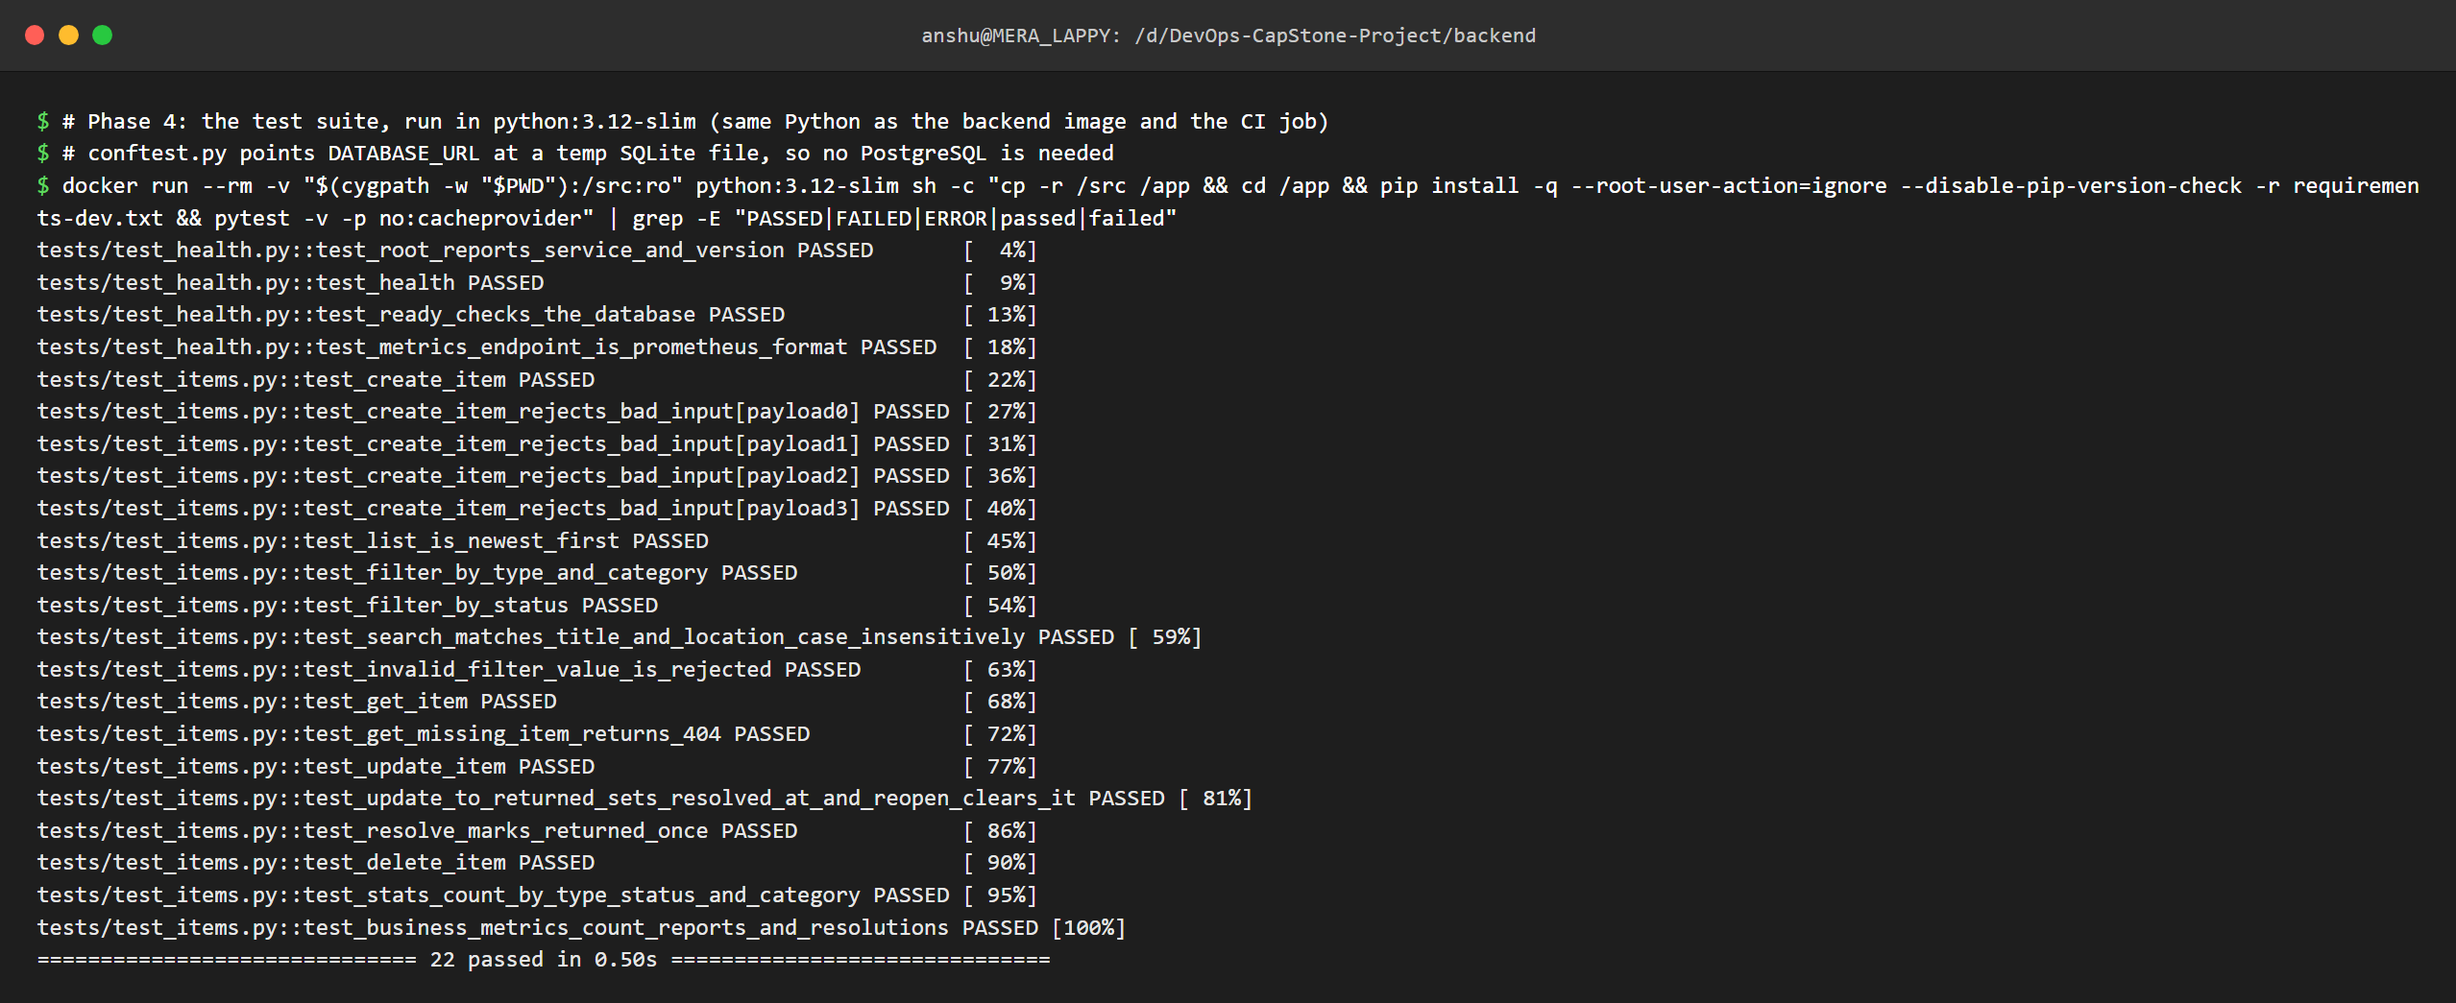
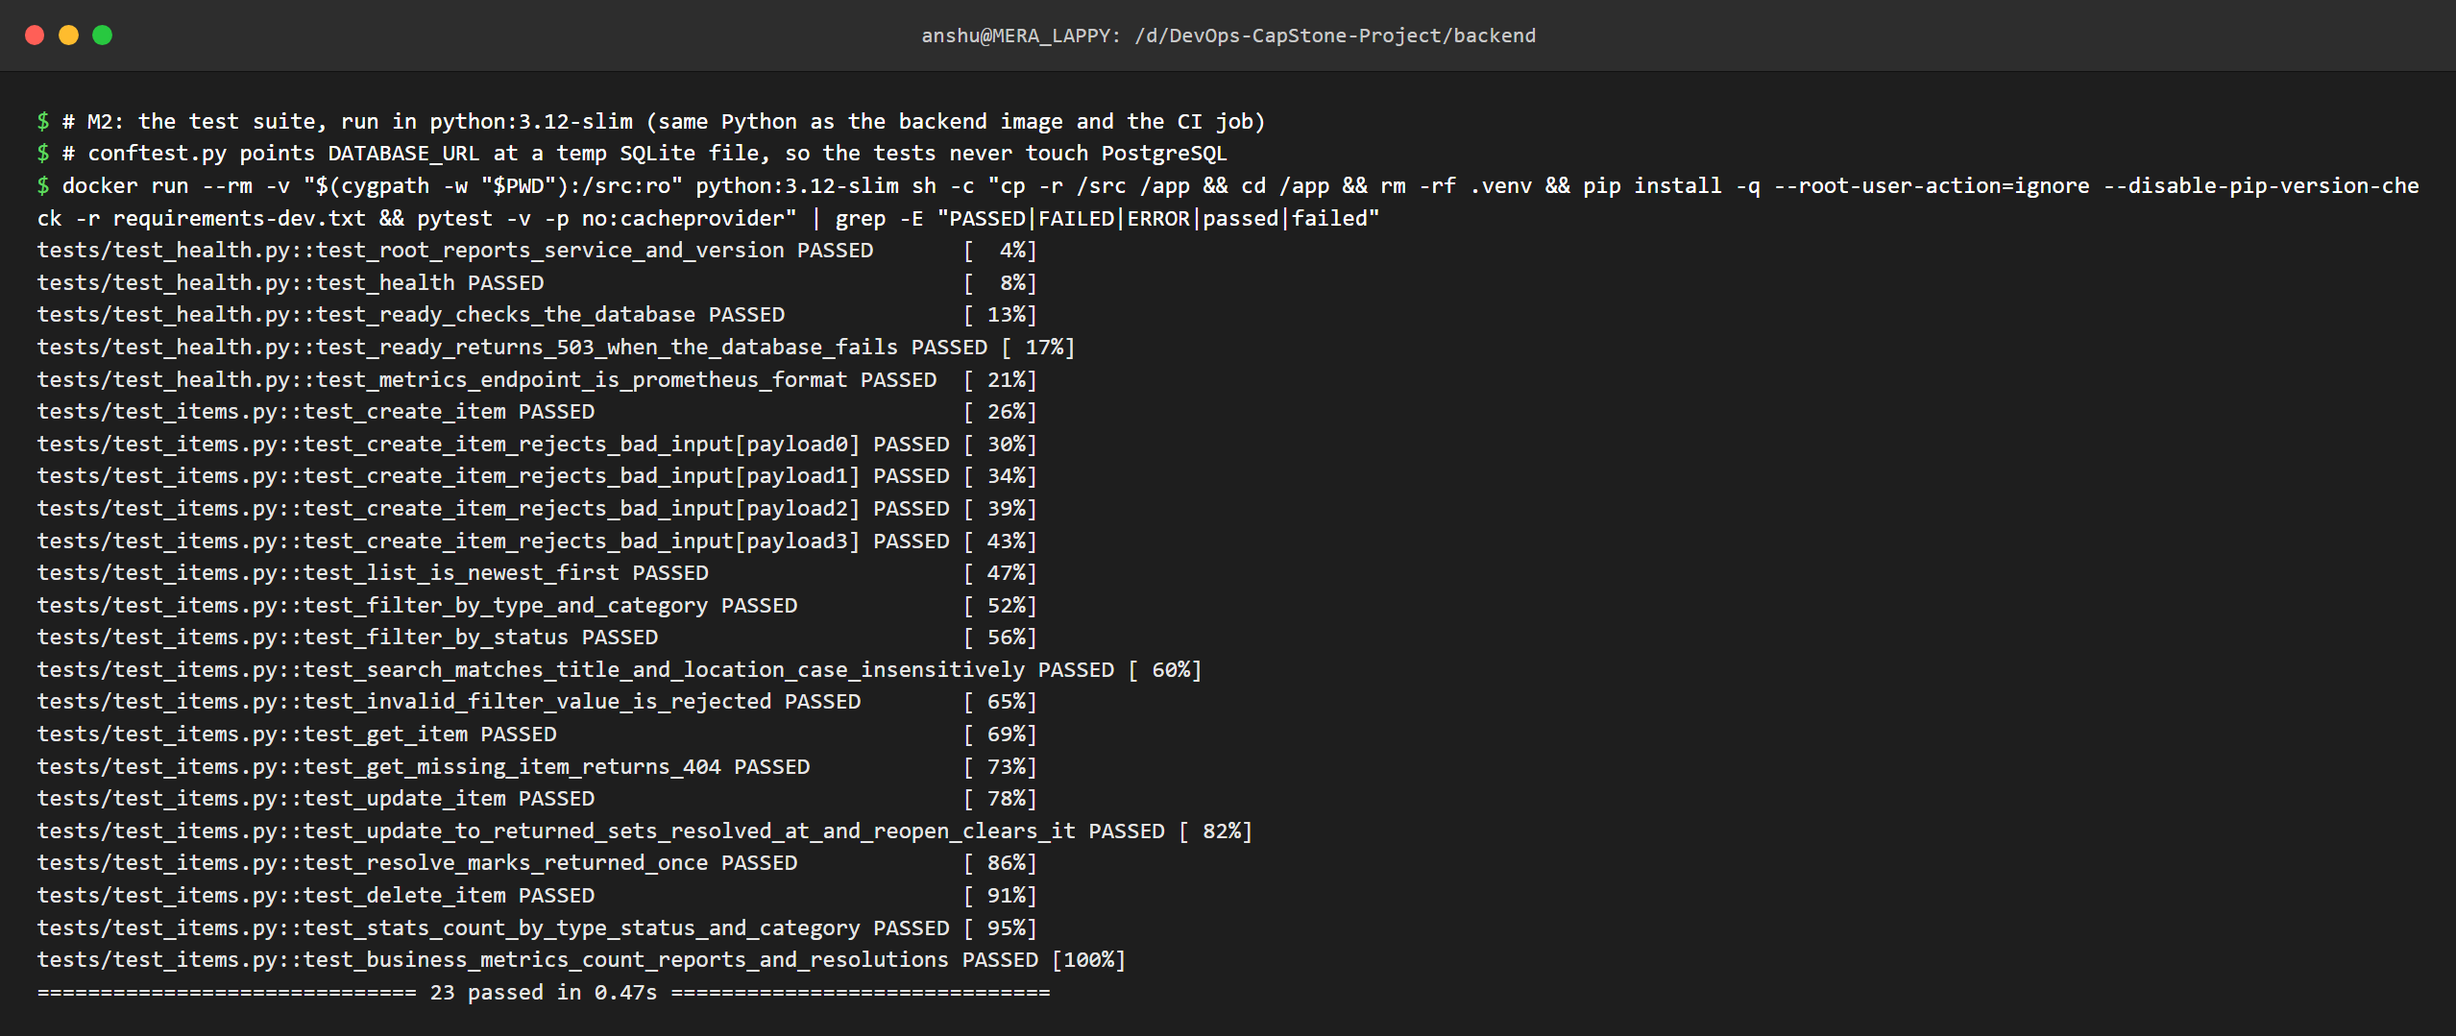
Write the project README with run instructions, pipeline, Trivy notes and rubric map

Changed region(s): [[0.0, 0.0919, 0.9887, 0.9799], [0.3707, 0.0306, 0.6179, 0.0612]]

diff --git a/README.md b/README.md
@@ -3,12 +3,177 @@ FoundIt – Campus Lost & Found (DevOps Capstone)
 
 Name: Anshul Mohanty    Roll No: 24BCS10191    Section: A
 
-FoundIt is a campus lost & found board: students report items they **lost** or **found**, others browse
-and filter them, and an item moves `OPEN → CLAIMED → RETURNED`. The app is small on purpose: the project
-is the DevOps layer around it. That layer covers tests, containers, a CI/CD pipeline with a security gate,
-Kubernetes via Helm, monitoring, autoscaling, GitOps, and AWS infrastructure built with Terraform.
+**FoundIt** is a campus lost & found board. A student who loses something (an ID card, a bottle, a charger,
+a book…) posts a **LOST** report; whoever finds something posts a **FOUND** report. Everyone can browse,
+filter and search the board, and an item moves `OPEN → CLAIMED → RETURNED` once it gets back to its owner.
 
-- **Design and decisions:** [DESIGN.md](DESIGN.md)
-- **What I learned, phase by phase:** [LEARNING.md](LEARNING.md)
+The app is deliberately small. The project is the **DevOps layer** around it:
+- tests
+- non-root containers
+- a CI/CD pipeline with a security gate
+- Helm on Kubernetes with an Ingress, autoscaling and probes
+- Prometheus/Grafana with custom business metrics
+- GitOps delivery through Argo CD
+- AWS infrastructure (VPC + EKS) built with Terraform
 
-> 🚧 Work in progress: this README is completed in Phase 11 with run instructions and the rubric map.
+![FoundIt board](docs/screenshots/14_ui_ingress.png)
+
+| Document | What's in it |
+|---|---|
+| [DESIGN.md](DESIGN.md) | architecture, data model, API, and a **decision log** (why each choice was made) |
+| [LEARNING.md](LEARNING.md) | what I learned in each build phase: concepts, real gotchas, viva answers |
+| [terraform/README.md](terraform/README.md) | the AWS runbook: apply, deploy, teardown order, cost |
+| [troubleshooting/README.md](troubleshooting/README.md) | three break-and-fix Kubernetes labs |
+
+## Architecture
+
+```mermaid
+flowchart LR
+    DEV["git push main"] --> GA["GitHub Actions"]
+    GA --> T["pytest · npm build · helm lint<br/>+ migrations on real Postgres"]
+    T --> B["build 2 images :SHA"]
+    B --> S["Trivy gate"]
+    S --> R["GHCR"]
+    R --> K["kind smoke deploy"]
+    K --> BUMP["commit tag to<br/>values-image.yaml"]
+    BUMP --> ARGO["Argo CD"]
+    subgraph CL["Kubernetes (minikube / EKS)"]
+        ING["Ingress"] -->|"/"| FE["frontend ×2<br/>nginx"]
+        ING -->|"/api"| BE["backend ×2..N<br/>FastAPI"]
+        BE --> PG[("PostgreSQL<br/>PVC")]
+        HPA["HPA"] -.-> BE
+        PROM["Prometheus"] -.->|"/metrics"| BE
+        PROM --> GRAF["Grafana"]
+    end
+    ARGO -->|"sync"| CL
+    TF["Terraform"] -->|"VPC + EKS"| CL
+```
+
+| Layer | Tool |
+|---|---|
+| Frontend | React 19 + Vite, served by `nginx-unprivileged` |
+| Backend | FastAPI, SQLAlchemy 2, Alembic, `prometheus-fastapi-instrumentator` + custom metrics |
+| Database | PostgreSQL 16 |
+| Tests | pytest (23 tests, temp SQLite) + a CI job that runs the migrations on real Postgres |
+| Containers | Docker (multi-stage, non-root), Docker Compose |
+| CI/CD | GitHub Actions → GHCR, Trivy, kind; GitOps with Argo CD |
+| Kubernetes | Helm chart: Deployments, Services, Ingress, HPA, PDB, PVC, ServiceMonitor |
+| Observability | kube-prometheus-stack (Prometheus, Grafana), PrometheusRule alerts |
+| Infrastructure | Terraform: AWS VPC + EKS (ap-south-1) |
+
+## API
+
+| Method | Path | |
+|---|---|---|
+| GET | `/health`, `/ready`, `/metrics`, `/docs` | liveness, readiness (real DB query), Prometheus, Swagger |
+| GET | `/api/items?type=&status=&category=&q=` | list, newest first, with filters and search |
+| GET | `/api/items/stats` | open lost / open found / claimed / returned / by category |
+| GET · PUT · DELETE | `/api/items/{id}` | read, partial update, delete |
+| POST | `/api/items` | report an item |
+| POST | `/api/items/{id}/resolve` | mark returned (409 if it already is) |
+
+## Run it
+
+**1. Locally with Docker Compose** (PostgreSQL + backend + frontend):
+
+```bash
+docker compose up --build
+# UI http://localhost:3000 · API http://localhost:8000/docs
+```
+
+**2. Tests:**
+
+```bash
+cd backend && python -m venv .venv && .venv/Scripts/pip install -r requirements-dev.txt   # Linux/macOS: .venv/bin/pip
+.venv/Scripts/python -m pytest -v
+```
+
+**3. Kubernetes (minikube) with Helm:**
+
+```bash
+minikube start -p devops && minikube -p devops addons enable ingress && minikube -p devops addons enable metrics-server
+kubectl apply -f k8s/namespace.yaml
+helm upgrade --install foundit helm/foundit -n foundit \
+  -f helm/foundit/values-minikube.yaml -f helm/foundit/values-image.yaml --wait
+kubectl port-forward -n ingress-nginx svc/ingress-nginx-controller 8081:80
+curl -H "Host: foundit.local" localhost:8081/api/items/stats
+```
+
+**4. Monitoring:**
+
+```bash
+kubectl create namespace monitoring && kubectl apply -f monitoring/foundit-dashboard.yaml
+helm upgrade --install kube-prometheus-stack prometheus-community/kube-prometheus-stack \
+  -n monitoring -f monitoring/prometheus-values.yaml --wait
+kubectl apply -f monitoring/foundit-alerts.yaml
+kubectl port-forward -n monitoring svc/kube-prometheus-stack-grafana 3001:80     # admin / foundit-admin
+```
+
+**5. GitOps with Argo CD:**
+
+```bash
+helm upgrade --install argocd argo/argo-cd -n argocd --create-namespace -f argocd/argocd-values.yaml --wait
+kubectl apply -f argocd/foundit-app.yaml
+```
+
+**6. AWS EKS:** see [terraform/README.md](terraform/README.md). It covers `plan`/`apply`, deploying with
+`values-eks.yaml`, and the teardown order that keeps `terraform destroy` clean.
+
+## The pipeline
+
+[`.github/workflows/ci-cd.yml`](.github/workflows/ci-cd.yml) runs on every push to `main`, on pull requests
+and on demand:
+
+| Job | What it does | Fails the build when |
+|---|---|---|
+| `test` | `pytest -v`, `npm ci && npm run build`, `helm lint` + `helm template` for minikube and EKS | a test fails, the UI doesn't build, the chart is invalid |
+| `migrations` | `alembic upgrade → downgrade → upgrade → check` against a PostgreSQL service container | a migration breaks or the models drift from the migrations |
+| `build-scan-push` | builds both images tagged with the **commit SHA**, Trivy-scans them, pushes them to GHCR (main only) | Trivy finds a fixable HIGH/CRITICAL CVE |
+| `smoke-deploy` | installs the chart with those exact images on a throwaway kind cluster and curls the UI and the API | the pods don't become Ready or the API doesn't answer |
+| `gitops-bump` | commits the new SHA to `helm/foundit/values-image.yaml` (`[skip ci]`) | – |
+
+Argo CD watches the repo and syncs the cluster to the new tag. CI never needs cluster credentials.
+
+### Security scanning (M6)
+
+Trivy scans **both images** in every run. It looks at the OS packages of the base images (Debian for
+the backend, Alpine for nginx) and at every installed language package (the Python wheels), and checks
+them against public CVE databases. The gate is `severity: HIGH,CRITICAL`, `ignore-unfixed: true`,
+`exit-code: 1`: the job fails only for serious vulnerabilities that already have a fixed version, so a
+failing build always has an action, which is to rebuild or bump the package. A clean result means no
+known, fixable HIGH/CRITICAL CVE in what we ship. To prove the gate bites, I scanned an old
+`nginx:1.20-alpine`: it shows 30 such CVEs (for example CVE-2022-32207 in curl) and exit code 1
+([screenshot](docs/screenshots/11_trivy_local.png)). A second, report-only Trivy step checks the Helm chart,
+Dockerfiles and Terraform for misconfigurations. Accepted findings are listed with reasons in
+[.trivyignore](.trivyignore).
+
+## Rubric map (GRADING.md)
+
+| Module | Where it is | Evidence |
+|---|---|---|
+| **M1** Application | [backend/app/](backend/app/), [backend/alembic/versions/](backend/alembic/versions/), [frontend/src/](frontend/src/), [docker-compose.yml](docker-compose.yml) | [API calls](docs/screenshots/02_backend_api.png) · [Swagger](docs/screenshots/03_swagger.png) · [board](docs/screenshots/06_ui_board.png) · [report form](docs/screenshots/07_ui_report_modal.png) · [error state](docs/screenshots/08_ui_backend_down.png) · [migrations](docs/screenshots/04_migrations.png) |
+| **M2** Testing | [backend/tests/](backend/tests/), [backend/pytest.ini](backend/pytest.ini), [conftest.py](backend/tests/conftest.py) | [pytest -v, 23 tests](docs/screenshots/05_pytest.png) |
+| **M3** Git & GitHub | this repo, [.gitignore](.gitignore) | commit history ⏳ Phase 12 |
+| **M4** Docker | [backend/Dockerfile](backend/Dockerfile), [frontend/Dockerfile](frontend/Dockerfile) (multi-stage), [docker-compose.yml](docker-compose.yml) | [compose up + psql + non-root `id`](docs/screenshots/09_compose_up.png) · [UI on :3000](docs/screenshots/10_ui_compose.png) |
+| **M5** CI/CD | [.github/workflows/ci-cd.yml](.github/workflows/ci-cd.yml) | [jobs + actionlint](docs/screenshots/12_ci_workflow_lint.png) · green run + GHCR SHA tags ⏳ Phase 12 |
+| **M6** DevSecOps | Trivy steps in the workflow, [.trivyignore](.trivyignore) | [Trivy: clean images, failing old image](docs/screenshots/11_trivy_local.png) · [config scan](docs/screenshots/22_terraform_validate.png) · pipeline Trivy output ⏳ Phase 12 |
+| **M7** Terraform | [terraform/](terraform/), [terraform.tfvars.example](terraform/terraform.tfvars.example) | [fmt + init + validate](docs/screenshots/22_terraform_validate.png) · plan / console / destroy ⏳ Phase 12 |
+| **M8** Kubernetes + Helm | [k8s/namespace.yaml](k8s/namespace.yaml), [helm/foundit/](helm/foundit/) | [helm list, pods, svc, ingress, hpa](docs/screenshots/13_helm_minikube.png) · [UI through the Ingress](docs/screenshots/14_ui_ingress.png) · [troubleshooting labs](troubleshooting/README.md) |
+| **M9** Observability | [monitoring/](monitoring/), [servicemonitor.yaml](helm/foundit/templates/servicemonitor.yaml) | [/metrics](docs/screenshots/23_metrics_endpoint.png) · [targets UP](docs/screenshots/15_prometheus_targets.png) · [Grafana](docs/screenshots/17_grafana_dashboard.png) · [alerts](docs/screenshots/16_prometheus_alerts.png) · [HPA 2→3→2](docs/screenshots/18_hpa_scaling.png) |
+| **M10** Docs + demo | this README, [DESIGN.md](DESIGN.md), [LEARNING.md](LEARNING.md) | live demo below ⏳ Phase 12 |
+
+## Live demo (M10): commit → pipeline → deployment
+
+1. Open the app (`foundit.local`), Argo CD (application `foundit`) and the GitHub Actions tab side by side.
+2. Make a visible change. For example, bump `"version"` in `frontend/package.json`; the footer shows it.
+3. `git commit -am "…" && git push`.
+4. Actions runs: test → migrations → build + Trivy → push `:SHA` to GHCR → kind smoke deploy → bump commit.
+5. Argo CD picks up the bump commit (or press **Refresh**), sees `OutOfSync`, syncs, and the pods roll one
+   at a time (`maxUnavailable: 0`).
+6. Reload the page: the footer shows the new version. `kubectl get deploy -n foundit -o wide` shows the new SHA.
+
+## Cost and cleanup
+
+The AWS part runs only for a short, planned window. The order is uninstall the app and ingress-nginx →
+`terraform destroy` → check the console ([details](terraform/README.md#teardown-in-this-order)). The
+local stack is removed with `docker compose down -v` and `minikube delete -p devops`.

diff --git a/LEARNING.md b/LEARNING.md
@@ -538,3 +538,65 @@ flowchart LR
   Kubernetes restarts on liveness failures and removes from Services on readiness failures.
 - *Where do you look for ImagePullBackOff?* `kubectl describe pod` Events – the exact image reference and
   the registry's error are there.
+
+---
+
+## Phase 11 – Infrastructure as Code (Terraform), GitOps (Argo CD) and documentation
+
+**In one line:** the cloud network and cluster are described as code that can be planned, reviewed,
+applied and destroyed. The cluster's contents are described in git, and Argo CD keeps them in sync.
+
+**What I built**
+- `terraform/`: a VPC (2 public + 2 private subnets, 1 NAT), EKS 1.34 with a 2 × t3.medium node group, addons
+  (incl. the EBS CSI driver with an IRSA role and metrics-server), outputs, and a runbook
+  ([terraform/README.md](terraform/README.md)) with cost and teardown order.
+- `argocd/foundit-app.yaml`: the Application (repo → `helm/foundit` at `main` → namespace `foundit`).
+- `argocd/argocd-values.yaml`: a lean Argo CD install.
+- Hardening from the Trivy **config** scan: read-only root filesystems everywhere, postgres as uid 70,
+  explicit `USER 101`, the EKS API limited to my IP. Accepted risks are in `.trivyignore` with reasons.
+- `README.md`: what the app does, how to run each layer, the pipeline, the Trivy explanation, and the rubric map.
+
+```bash
+terraform fmt -check -recursive && terraform init -backend=false && terraform validate   # offline checks
+trivy config --ignorefile .trivyignore --skip-dirs troubleshooting .                    # IaC scan
+```
+
+**Concepts**
+
+| Terraform command | Does |
+|---|---|
+| `init` | downloads providers + modules, sets up the backend (where state lives) |
+| `validate` | the HCL is syntactically and type-correct (no AWS calls) |
+| `plan` | compares code with state + reality and prints what *would* change |
+| `apply` | makes the changes and records them in state |
+| `destroy` | deletes everything in state |
+
+| Term | Meaning |
+|---|---|
+| state | Terraform's record of what it created, mapping code to real resource IDs |
+| module | a reusable package of resources (here: VPC, EKS, IAM role) |
+| IRSA | IAM Roles for Service Accounts: a Kubernetes service account assumes an AWS role via OIDC |
+| GitOps | git is the source of truth for what runs; an in-cluster agent makes reality match it |
+
+**Gotchas I hit**
+- The first Trivy config scan flagged real things in *my* chart (no read-only root FS) and the Dockerfile
+  (no explicit `USER`). It also flagged code inside `terraform/.terraform/modules`, which is downloaded,
+  not mine, so that directory is skipped.
+- Making nginx's root filesystem read-only means giving it writable `emptyDir`s for `/tmp` and
+  `/etc/nginx/conf.d`, because the entrypoint renders the template into conf.d at start.
+- Postgres can run read-only too, if it starts as uid 70 directly (instead of root + gosu) and gets
+  `emptyDir`s for `/var/run/postgresql` and `/tmp`. The existing data survived the switch.
+- The containerised Trivy didn't pick up `.trivyignore` (its working directory is `/`, not the repo):
+  pass `--ignorefile` explicitly, and `trivyignores:` in the CI step.
+- Kubernetes creates the load balancer and EBS volume, not Terraform. So `terraform destroy` can
+  hang on the VPC unless the app and ingress-nginx are uninstalled first.
+
+**Viva answers**
+- *Why Terraform instead of clicking in the console?* It's repeatable, reviewable (`plan`), versioned
+  in git, and `destroy` removes exactly what was created, so there are no forgotten resources.
+- *Why are the nodes in private subnets?* They have no public IPs, so they can't be reached from the
+  internet. They still pull images through the NAT gateway, and only the load balancer is public.
+- *What is in `terraform.tfvars.example` and why not `terraform.tfvars`?* The shape of the inputs without
+  my values; the real file is git-ignored. AWS keys never go in either. They live in `~/.aws`.
+- *Why GitOps on top of CI/CD?* The cluster pulls its desired state from git: CI needs no cluster
+  credentials, every deployment is a commit (auditable, revertable), and drift is corrected automatically.

diff --git a/DESIGN.md b/DESIGN.md
@@ -116,6 +116,7 @@ One table, `items`.
 | `troubleshooting/` | deliberately broken manifests + [lab guide](troubleshooting/README.md) |
 | `terraform/` | AWS VPC + EKS |
 | `scripts/` | helper scripts (load test) |
+| `.trivyignore` | accepted Trivy findings, each with its reason |
 | `docs/screenshots/` | evidence for the grading checklist |
 
 ## 6. Config and secrets
@@ -179,6 +180,13 @@ One table, `items`.
 | D44 | HPA max 3 on minikube, scale-down stabilization 120 s | the node fits 3 backends next to monitoring; 120 s (default 300 s) shows the full up-and-down cycle in a demo |
 | D45 | The app starts even when the DB is unreachable; `/ready` returns 503 and logs the driver's message | a DB outage removes pods from rotation with a clear log line instead of a CrashLoopBackOff; found while building lab 3 |
 | D46 | Troubleshooting labs are standalone `foundit-lab-*` objects next to the release | they can be broken and fixed live without touching the real deployment (or confusing Argo CD) |
+| D47 | Terraform uses the community VPC (5.8.1) and EKS (20.37.1) modules, AWS provider 5.x, local state | versions already proven in topic 20; local state is fine for one person and one short window (S3 + lockfile for a team) |
+| D48 | One NAT gateway, 2 AZs, nodes in private subnets, load balancers in public subnets | the NAT gateway is the most expensive VPC part; one AZ outage is an accepted risk for a demo |
+| D49 | EKS addons managed by Terraform: vpc-cni, coredns, kube-proxy, **aws-ebs-csi-driver with an IRSA role**, metrics-server | without the EBS CSI driver the Postgres PVC stays Pending; IRSA gives volume permissions to one service account instead of every node |
+| D50 | `api_allowed_cidrs` has no default and rejects `0.0.0.0/0` | the EKS API is public (kubectl from my laptop) but only to my IP; nobody can open it to the internet by accident |
+| D51 | Pods use read-only root filesystems (backend, frontend, init container, postgres) with `emptyDir` for the paths that must be writable; postgres runs as uid 70 | a compromised process can't modify its own image; found by the Trivy config scan |
+| D52 | `.trivyignore` holds accepted findings, each with a written reason; CI's config scan skips the deliberately broken labs | accepted risk is documented and reviewable instead of silently ignored |
+| D53 | Argo CD installed lean (no Dex, notifications or ApplicationSet), polls every 60 s; Application uses automated sync + prune + selfHeal | fits next to the app and monitoring; the live demo doesn't wait 3 minutes; manual drift is reverted |
 
 ## 8. Phase status
 
@@ -194,5 +202,5 @@ One table, `items`.
 | 8 | Helm + minikube | ✅ done | [helm + kubectl](docs/screenshots/13_helm_minikube.png), [UI via Ingress](docs/screenshots/14_ui_ingress.png) |
 | 9 | Monitoring + HPA | ✅ done | [targets UP](docs/screenshots/15_prometheus_targets.png), [alert rules](docs/screenshots/16_prometheus_alerts.png), [Grafana](docs/screenshots/17_grafana_dashboard.png), [HPA 2→3→2](docs/screenshots/18_hpa_scaling.png) |
 | 10 | Troubleshooting labs | ✅ done | [ImagePullBackOff](docs/screenshots/19_lab_broken_image.png), [no endpoints](docs/screenshots/20_lab_broken_service.png), [never Ready](docs/screenshots/21_lab_broken_readiness.png) |
-| 11 | Terraform + Argo CD + README | ⏳ | |
+| 11 | Terraform + Argo CD + README | ✅ code done (Argo CD sync tested in 12B, AWS in 12C) | [validate + IaC scan](docs/screenshots/22_terraform_validate.png), [/metrics](docs/screenshots/23_metrics_endpoint.png) |
 | 12 | Guided manual phase: push, GHCR, GitOps demo, AWS | ⏳ | |
